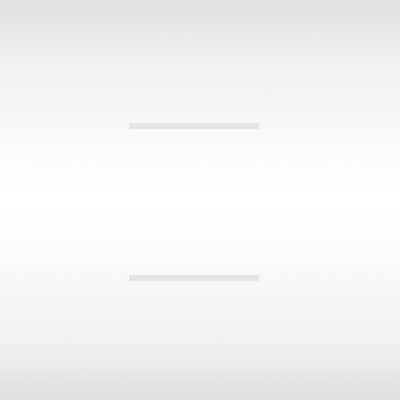
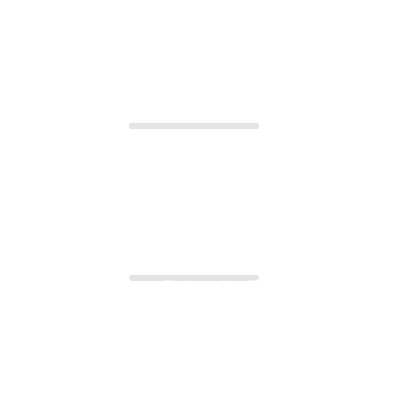
adapt for android

Changed region(s): [[0.0, 0.93, 1.0, 1.0], [0.0, 0.0, 1.0, 0.06]]

diff --git a/controllers/widget.js b/controllers/widget.js
@@ -1,32 +1,46 @@
 var initialValue = value = 2;
 var numberHeight = 50;
+var cb;
+var scrollUnit;
 
 _.each($.count.children, function(child){
 	child.height = numberHeight;
 });
 
-_.defer(function(){
-	$.count.scrollTo(0, numberHeight/2);
+$.count.addEventListener('postlayout', function(){
+	Ti.API.info('contentHeight ' + $.count.contentHeight);
+	Ti.API.info('$.count.children.length ' + $.count.children.length);
+	Ti.API.info('Ti.Platform.displayCaps.dpi ' + Ti.Platform.displayCaps.dpi);
+	scrollUnit = (OS_IOS) ? numberHeight : numberHeight * (Ti.Platform.displayCaps.dpi / 160);
+	$.count.scrollTo(0, scrollUnit/2 + scrollUnit);
 });
 
 $.shader.image = WPATH('/shader.png');
 
 function increaseCount(){
-	if(value === $.count.children.length) return;
+	if(value === $.count.children.length - 2) return;
 	++value;
-	$.count.scrollTo(0, numberHeight/2 + numberHeight * (value - 2) );
+	$.count.scrollTo(0, scrollUnit/2 + scrollUnit * (value - 2) + scrollUnit);
+	if(typeof cb === "function") cb(value);
 }
 
 function decreaseCount(){
 	if(value === 1) return;
 	--value;
-	$.count.scrollTo(0, numberHeight/2 + numberHeight * (value - 2) );
+	$.count.scrollTo(0, scrollUnit/2 + scrollUnit * (value - 2) + scrollUnit );
+	if(typeof cb === "function") cb(value);
 }
 
 function getCount(){
 	return value;
 }
 
+function init(config){
+	if(typeof config.onChange === "function") cb = config.onChange;
+	if(typeof config.onLoad === "function") config.onLoad(value);
+}
+
 exports.increaseCount = increaseCount;
+exports.init = init;
 exports.decreaseCount = decreaseCount;
 exports.getCount = getCount;
